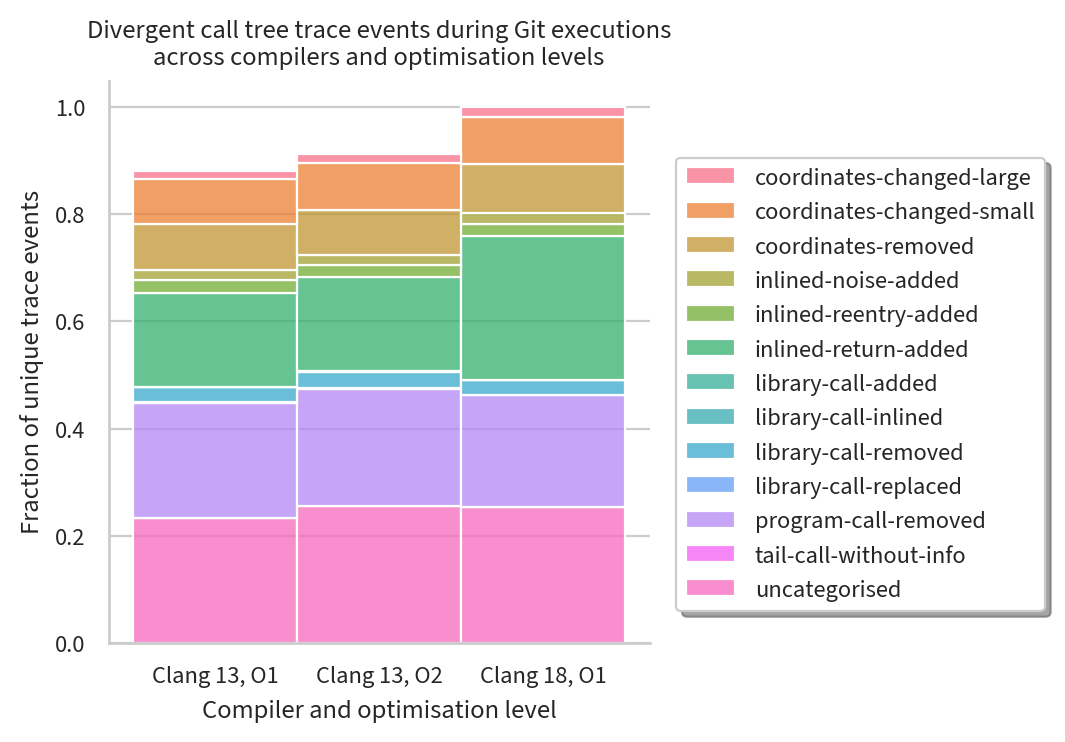
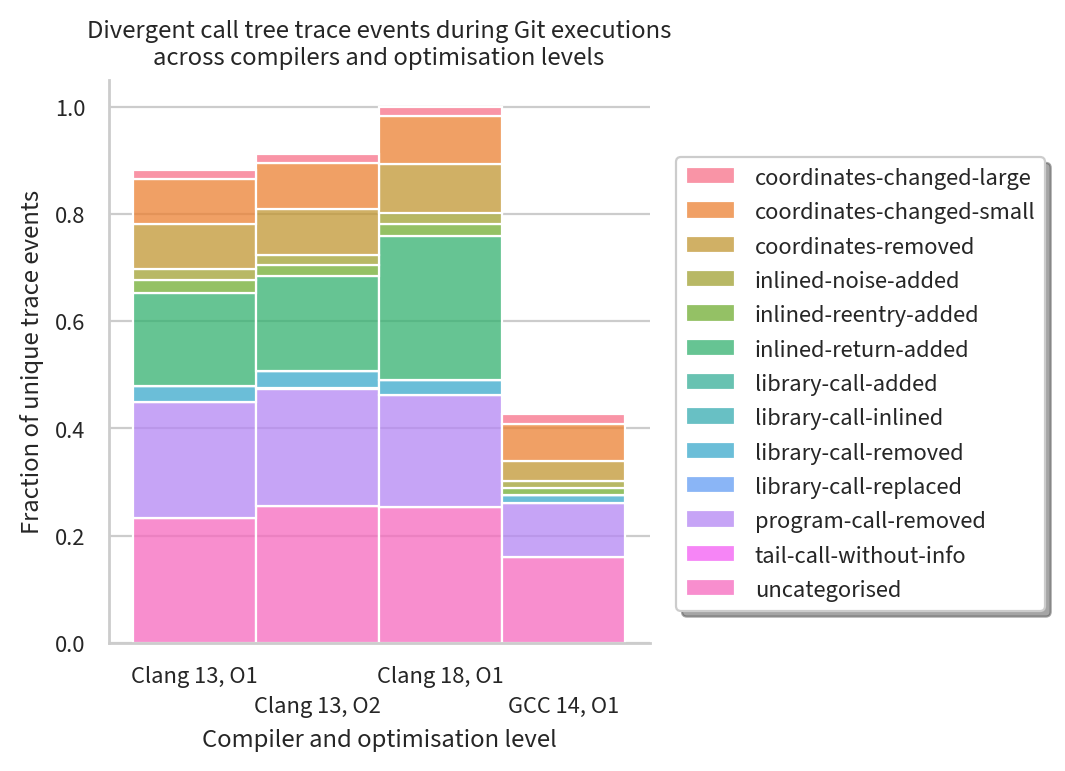
Add GCC 14 O1 to Git divergences figure

diff --git a/data/consistency-concrete/shared/package_plots.py b/data/consistency-concrete/shared/package_plots.py
@@ -64,7 +64,7 @@ def load_data():
   # read_run("gcc/11/O1", ("GCC", "11", "O1"))
   # Lots of "no info for this address", skipping for now
   # read_run("gcc/11/O2", ("GCC", "11", "O2"))
-  # read_run("gcc/14/O1", ("GCC", "14", "O1"))
+  read_run("gcc/14/O1", ("GCC", "14", "O1"))
 
   def df_keys(df):
     keys = df.variant
@@ -111,8 +111,8 @@ def divergences_by_compiler_and_optimisation_level(df):
   )
   ax = g.facet_axis(0, 0)
   ax.grid(False, "major", "x")
-  # for tick in ax.xaxis.get_major_ticks()[1::2]:
-  #   tick.set_pad(12)
+  for tick in ax.xaxis.get_major_ticks()[1::2]:
+    tick.set_pad(14)
   g.set(
     title=f"Divergent call tree trace events during {friendly_name} executions\nacross compilers and optimisation levels",
     xlabel="Compiler and optimisation level",
